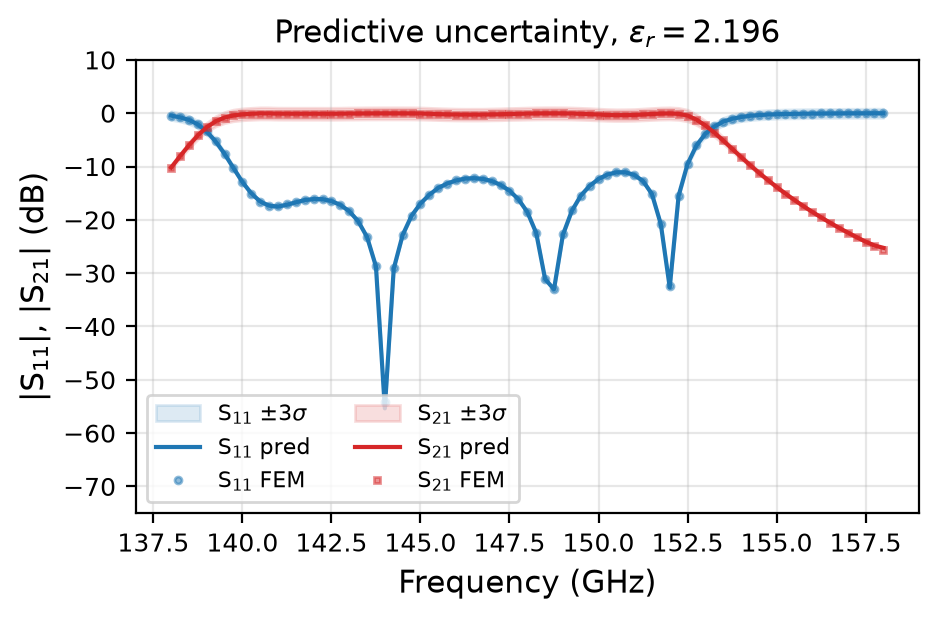
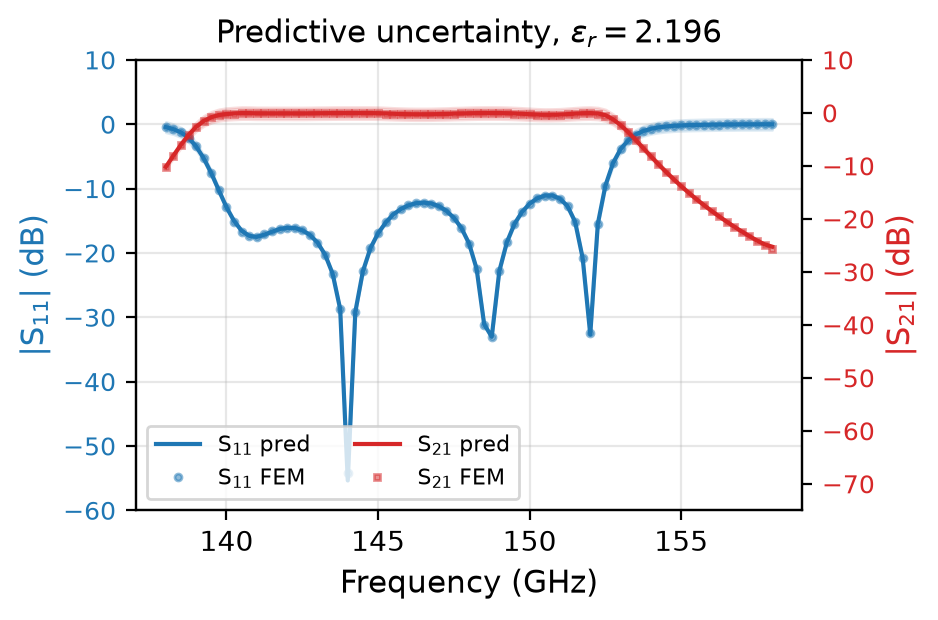
Use twin y-axes for S11/S11 uncertainty to make S11 band visible

diff --git a/paper/gen_fig2.py b/paper/gen_fig2.py
@@ -45,41 +45,51 @@ for ax_idx, ev in enumerate(pick):
     s21_pred = s21p[idx]
     s21_sigma = s21_std[idx]
 
-    fig, ax = plt.subplots(1, 1, figsize=figsize)
+    fig, ax1 = plt.subplots(1, 1, figsize=figsize)
+    ax2 = ax1.twinx()
 
-    # S11 uncertainty band + mean + truth
-    ax.fill_between(
+    # S11 on left axis (ax1)
+    ax1.fill_between(
         f_ghz,
         20 * np.log10(np.abs(s11_pred) + 1e-15) - 3 * s11_sigma,
         20 * np.log10(np.abs(s11_pred) + 1e-15) + 3 * s11_sigma,
-        alpha=0.15, color="C0", label=r"S$_{11}$ $\pm 3\sigma$",
+        alpha=0.15, color="C0",
     )
-    ax.plot(f_ghz, 20 * np.log10(np.abs(s11_pred) + 1e-15),
-            "-", color="C0", linewidth=1.5, label=r"S$_{11}$ pred")
-    ax.plot(f_ghz, 20 * np.log10(np.abs(s11_true) + 1e-15),
-            "o", color="C0", markersize=2.5, alpha=0.5,
-            label=r"S$_{11}$ FEM")
+    ax1.plot(f_ghz, 20 * np.log10(np.abs(s11_pred) + 1e-15),
+             "-", color="C0", linewidth=1.5, label=r"S$_{11}$ pred")
+    ax1.plot(f_ghz, 20 * np.log10(np.abs(s11_true) + 1e-15),
+             "o", color="C0", markersize=2.5, alpha=0.5,
+             label=r"S$_{11}$ FEM")
+    ax1.set_ylabel(r"|S$_{11}$| (dB)", fontsize=11, color="C0")
+    ax1.set_ylim(-60, 10)
+    ax1.tick_params(axis="y", labelcolor="C0", labelsize=9)
 
-    # S21 uncertainty band + mean + truth
-    ax.fill_between(
+    # S21 on right axis (ax2)
+    ax2.fill_between(
         f_ghz,
         20 * np.log10(np.abs(s21_pred) + 1e-15) - 3 * s21_sigma,
         20 * np.log10(np.abs(s21_pred) + 1e-15) + 3 * s21_sigma,
-        alpha=0.15, color="C3", label=r"S$_{21}$ $\pm 3\sigma$",
+        alpha=0.15, color="C3",
     )
-    ax.plot(f_ghz, 20 * np.log10(np.abs(s21_pred) + 1e-15),
-            "-", color="C3", linewidth=1.5, label=r"S$_{21}$ pred")
-    ax.plot(f_ghz, 20 * np.log10(np.abs(s21_true) + 1e-15),
-            "s", color="C3", markersize=2.5, alpha=0.5,
-            label=r"S$_{21}$ FEM")
+    ax2.plot(f_ghz, 20 * np.log10(np.abs(s21_pred) + 1e-15),
+             "-", color="C3", linewidth=1.5, label=r"S$_{21}$ pred")
+    ax2.plot(f_ghz, 20 * np.log10(np.abs(s21_true) + 1e-15),
+             "s", color="C3", markersize=2.5, alpha=0.5,
+             label=r"S$_{21}$ FEM")
+    ax2.set_ylabel(r"|S$_{21}$| (dB)", fontsize=11, color="C3")
+    ax2.set_ylim(-75, 10)
+    ax2.tick_params(axis="y", labelcolor="C3", labelsize=9)
 
-    ax.set_xlabel("Frequency (GHz)", fontsize=11)
-    ax.set_ylabel(r"|S$_{11}$|, |S$_{21}$| (dB)", fontsize=11)
-    ax.set_title(rf"Predictive uncertainty, $\varepsilon_r = {ev:.3f}$", fontsize=11)
-    ax.legend(fontsize=8, loc="lower left", ncol=2)
-    ax.set_ylim(-75, 10)
-    ax.tick_params(labelsize=9)
-    ax.grid(True, alpha=0.3)
+    ax1.set_xlabel("Frequency (GHz)", fontsize=11)
+    ax1.set_title(rf"Predictive uncertainty, $\varepsilon_r = {ev:.3f}$", fontsize=11)
+
+    # Combined legend
+    lines1, labels1 = ax1.get_legend_handles_labels()
+    lines2, labels2 = ax2.get_legend_handles_labels()
+    ax1.legend(lines1 + lines2, labels1 + labels2,
+               fontsize=8, loc="lower left", ncol=2)
+
+    ax1.grid(True, alpha=0.3)
 
     fig.tight_layout()
     path = f"paper/fig_uncertainty_{ax_idx + 1}.png"